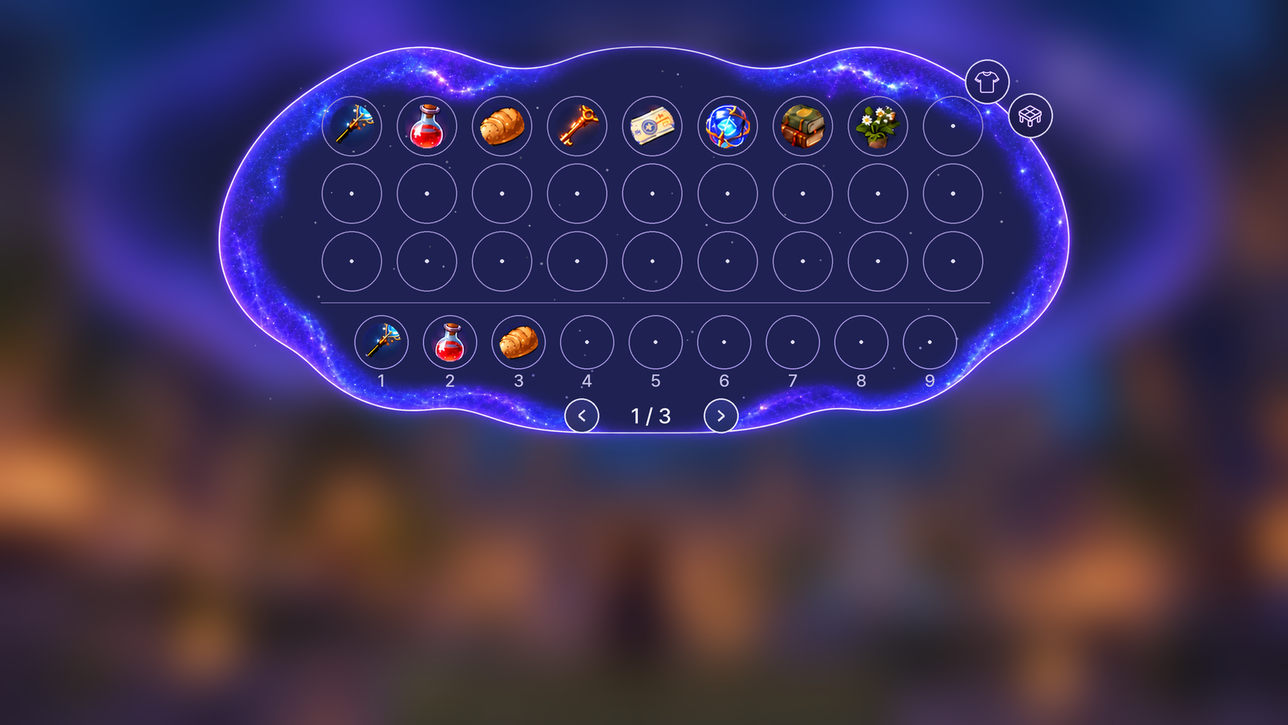
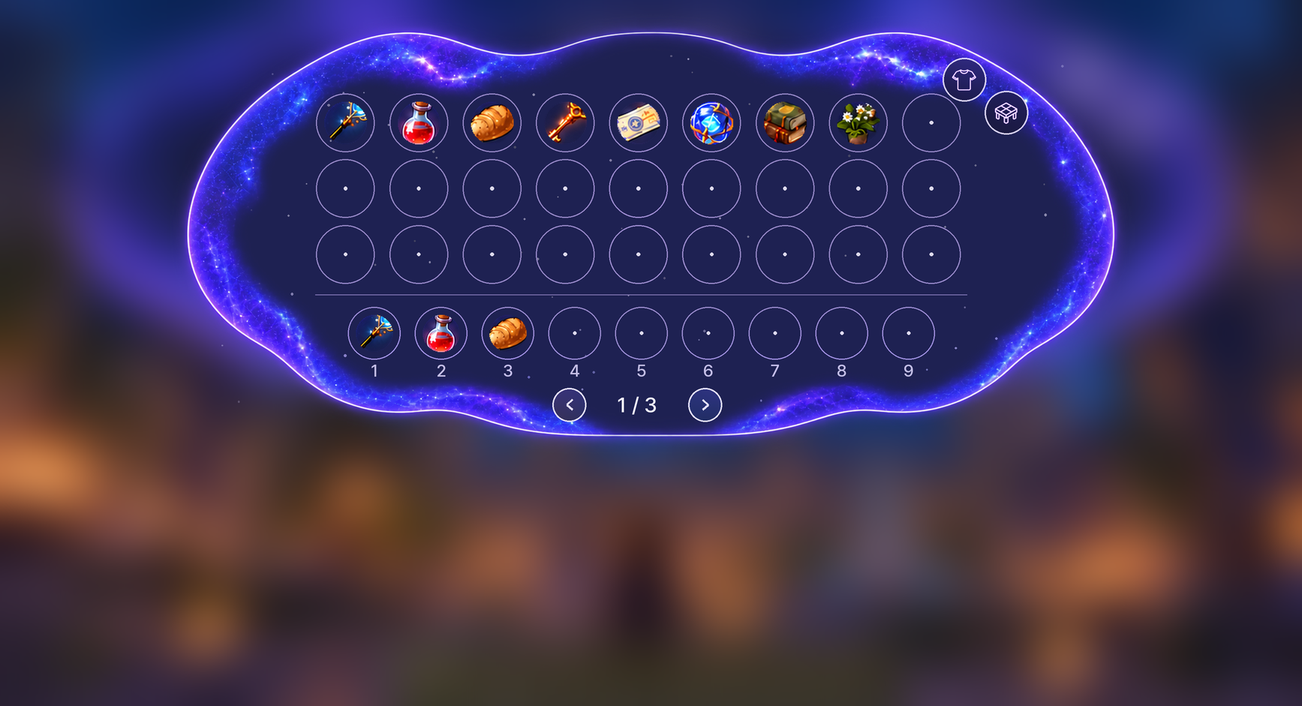
아공간 배낭 3차: 레퍼런스처럼 버튼·쪽 표시가 테두리 안에 들어가게 테두리 배율 조정
- 슬롯·버튼·제작창 내용 위치와 크기는 레퍼런스 그대로, 테두리만 균등 0.71 (PNG 모양 차이 보정)
- 제작창은 배낭 옆으로 오른쪽 100 이동, 캔버스 1735x941
- 조합법 책 버튼을 레퍼런스처럼 밝은 테두리·보라 글로우로

Claude-Session: https://claude.ai/code/session_0195n7GXNFft2XywgWRcxuzD

Changed region(s): [[0.1242, 0.0312, 0.8696, 0.6544]]

diff --git a/magic-codex-fabric/src/main/java/school/magiccodex/client/GalaxyBagLayout.java b/magic-codex-fabric/src/main/java/school/magiccodex/client/GalaxyBagLayout.java
@@ -11,24 +11,29 @@ package school.magiccodex.client;
 final class GalaxyBagLayout {
     private GalaxyBagLayout() {}
 
-    static final int CANVAS_W = 1672, CANVAS_H = 941;
+    static final int CANVAS_W = 1735, CANVAS_H = 941;
 
     // ---- bag border (bag_galaxy_border.png 1817x866, visible 13..1804 x 33..842) placed on the reference bag
     static final int BAG_PNG_W = 1817, BAG_PNG_H = 866;
-    /** PNG visible box (13..1804 x 33..842) laid exactly on the reference bag outline (45..1182 x 44..580). */
-    static final float BAG_SX = 1137f / 1791f, BAG_SY = 536f / 809f, BAG_X = 45 - 13 * BAG_SX, BAG_Y = 44 - 33 * BAG_SY;
+    /**
+     * The provided PNG's outline is shaped a little differently from the reference picture (dips at top/bottom centre,
+     * narrower top-right). At this uniform scale every slot ring sits on the dark glass and the two round buttons and
+     * the pager sit inside the outline, as in the reference (found from the PNG alpha). Slots keep reference size.
+     */
+    static final float BAG_SX = 0.71f, BAG_SY = 0.71f, BAG_X = -4, BAG_Y = 2;
     static final float BAG_W = BAG_PNG_W * BAG_SX, BAG_H = BAG_PNG_H * BAG_SY;
     /** Visible outline of the bag on the canvas (PNG visible bbox at this scale). */
-    static final float BAG_LEFT = 45, BAG_RIGHT = 1182, BAG_TOP = 44, BAG_BOTTOM = 580;
+    static final float BAG_LEFT = 13 * BAG_SX + BAG_X, BAG_RIGHT = 1804 * BAG_SX + BAG_X, BAG_TOP = 33 * BAG_SY + BAG_Y, BAG_BOTTOM = 842 * BAG_SY + BAG_Y;
     /** Shift that centres the bag alone (crafting closed): canvas centre minus the bag's visible centre. */
     static final float BAG_ALONE_SHIFT = CANVAS_W / 2f - (BAG_LEFT + BAG_RIGHT) / 2f;
 
     // ---- crafting panel (craft_panel_border.png 1108x1420, visible 34..1075 x 43..1380)
     static final int PANEL_PNG_W = 1108, PANEL_PNG_H = 1420;
-    /** PNG visible box (34..1075 x 43..1380) laid exactly on the reference panel outline (1185..1630 x 52..630). */
-    static final float PANEL_SX = 445f / 1041f, PANEL_SY = 578f / 1337f, PANEL_X = 1185 - 34 * PANEL_SX, PANEL_Y = 52 - 43 * PANEL_SY;
+    /** Reference panel (1185..1630 x 52..630) moved right by PANEL_DX so it sits beside the bag as in the reference. */
+    static final float PANEL_DX = 100;
+    static final float PANEL_SX = 445f / 1041f, PANEL_SY = 578f / 1337f, PANEL_X = 1185 + PANEL_DX - 34 * PANEL_SX, PANEL_Y = 52 - 43 * PANEL_SY;
     static final float PANEL_W = PANEL_PNG_W * PANEL_SX, PANEL_H = PANEL_PNG_H * PANEL_SY;
-    static final float PANEL_LEFT = 1185, PANEL_RIGHT = 1630, PANEL_TOP = 52, PANEL_BOTTOM = 630;
+    static final float PANEL_LEFT = 1185 + PANEL_DX, PANEL_RIGHT = 1630 + PANEL_DX, PANEL_TOP = 52, PANEL_BOTTOM = 630;
     /** Panel enters from the right by this much while it fades in. */
     static final float PANEL_SLIDE = 48;
     static final float OPEN_SECONDS = 0.24f;
@@ -43,22 +48,22 @@ final class GalaxyBagLayout {
     static final float LOCK_TITLE_Y = 103, LOCK_ICON_Y = 216, LOCK_ICON = 120, LOCK_TEXT_Y = 300, LOCK_HINT_Y = 331;
 
     // ---- crafting panel contents
-    static final float CRAFT_TITLE_X = 1250, CRAFT_TITLE_Y = 100, BOOK_X = 1361, BOOK_Y = 96, BOOK_SIZE = 52;
-    static final float CLOSE_X = 1579, CLOSE_Y = 100, CLOSE_R = 23;
-    static final float TITLE_RULE_Y = 127, TITLE_RULE_X0 = 1217, TITLE_RULE_X1 = 1325;
-    static final float[][] INPUTS = {{1273, 177}, {1358, 177}, {1273, 262}, {1358, 262}};
+    static final float CRAFT_TITLE_X = 1250 + PANEL_DX, CRAFT_TITLE_Y = 100, BOOK_X = 1361 + PANEL_DX, BOOK_Y = 96, BOOK_SIZE = 52;
+    static final float CLOSE_X = 1579 + PANEL_DX, CLOSE_Y = 100, CLOSE_R = 23;
+    static final float TITLE_RULE_Y = 127, TITLE_RULE_X0 = 1217 + PANEL_DX, TITLE_RULE_X1 = 1325 + PANEL_DX;
+    static final float[][] INPUTS = {{1273 + PANEL_DX, 177}, {1358 + PANEL_DX, 177}, {1273 + PANEL_DX, 262}, {1358 + PANEL_DX, 262}};
     static final float INPUT_R = 37.5f, INPUT_ITEM = 52;
-    static final float RESULT_X = 1542, RESULT_Y = 217, RESULT_R = 51, RESULT_ITEM = 70;
-    static final float ARROW_X = 1444, ARROW_Y = 217, ARROW_LEN = 55;
-    static final float SECTION_RULE_Y = 315, SECTION_RULE_X0 = 1217, SECTION_RULE_X1 = 1605;
-    static final float RECIPE_TITLE_X = 1252, RECIPE_TITLE_Y = 352;
-    static final float SEARCH_X0 = 1315, SEARCH_X1 = 1465, SEARCH_Y0 = 332, SEARCH_Y1 = 367;
-    static final float CRAFTABLE_LABEL_X = 1515, CRAFTABLE_LABEL_Y = 351;
-    static final float TOGGLE_X0 = 1564, TOGGLE_X1 = 1610, TOGGLE_Y0 = 340, TOGGLE_Y1 = 364;
-    static final float[] CARD_X = {1227, 1355, 1482}, CARD_Y = {386, 487};
+    static final float RESULT_X = 1542 + PANEL_DX, RESULT_Y = 217, RESULT_R = 51, RESULT_ITEM = 70;
+    static final float ARROW_X = 1444 + PANEL_DX, ARROW_Y = 217, ARROW_LEN = 55;
+    static final float SECTION_RULE_Y = 315, SECTION_RULE_X0 = 1217 + PANEL_DX, SECTION_RULE_X1 = 1605 + PANEL_DX;
+    static final float RECIPE_TITLE_X = 1252 + PANEL_DX, RECIPE_TITLE_Y = 352;
+    static final float SEARCH_X0 = 1315 + PANEL_DX, SEARCH_X1 = 1465 + PANEL_DX, SEARCH_Y0 = 332, SEARCH_Y1 = 367;
+    static final float CRAFTABLE_LABEL_X = 1515 + PANEL_DX, CRAFTABLE_LABEL_Y = 351;
+    static final float TOGGLE_X0 = 1564 + PANEL_DX, TOGGLE_X1 = 1610 + PANEL_DX, TOGGLE_Y0 = 340, TOGGLE_Y1 = 364;
+    static final float[] CARD_X = {1227 + PANEL_DX, 1355 + PANEL_DX, 1482 + PANEL_DX}, CARD_Y = {386, 487};
     static final float CARD_W = 116, CARD_H = 88, CARD_ITEM = 66;
     static final int CARDS_PER_PAGE = 6;
-    static final float RECIPE_PAGER_Y = 600, RECIPE_PREV_X = 1345, RECIPE_NEXT_X = 1475, RECIPE_LABEL_X = 1410, RECIPE_PAGER_R = 17;
+    static final float RECIPE_PAGER_Y = 600, RECIPE_PREV_X = 1345 + PANEL_DX, RECIPE_NEXT_X = 1475 + PANEL_DX, RECIPE_LABEL_X = 1410 + PANEL_DX, RECIPE_PAGER_R = 17;
 
     // ---- PlayerScreenHandler slot ids
     static final int RESULT_SLOT = 0, INPUT_START = 1, MAIN_START = 9, HOTBAR_START = 36;

diff --git a/magic-codex-fabric/src/test/java/school/magiccodex/client/GalaxyBagLayoutTest.java b/magic-codex-fabric/src/test/java/school/magiccodex/client/GalaxyBagLayoutTest.java
@@ -30,13 +30,12 @@ class GalaxyBagLayoutTest {
         assertTrue(GalaxyBagLayout.PANEL_LEFT > GalaxyBagLayout.BAG_RIGHT, "panel never covers the bag");
     }
 
-    @Test void bordersLieOnTheReferenceOutlines() {
-        // PNG visible boxes (bag 13..1804 x 33..842, panel 34..1075 x 43..1380) land on the reference outlines.
-        assertEquals(45, GalaxyBagLayout.BAG_X + 13 * GalaxyBagLayout.BAG_SX, 0.01);
-        assertEquals(1182, GalaxyBagLayout.BAG_X + 1804 * GalaxyBagLayout.BAG_SX, 0.01);
-        assertEquals(580, GalaxyBagLayout.BAG_Y + 842 * GalaxyBagLayout.BAG_SY, 0.01);
-        assertEquals(1630, GalaxyBagLayout.PANEL_X + 1075 * GalaxyBagLayout.PANEL_SX, 0.01);
-        assertEquals(630, GalaxyBagLayout.PANEL_Y + 1380 * GalaxyBagLayout.PANEL_SY, 0.01);
+    @Test void bordersKeepPngAspectAndPanelSitsBesideTheBag() {
+        assertEquals(GalaxyBagLayout.BAG_SX, GalaxyBagLayout.BAG_SY, 1e-6);
+        assertTrue(GalaxyBagLayout.PANEL_LEFT > GalaxyBagLayout.BAG_RIGHT);
+        assertTrue(GalaxyBagLayout.PANEL_LEFT - GalaxyBagLayout.BAG_RIGHT < 20);
+        assertTrue(GalaxyBagLayout.PANEL_RIGHT <= GalaxyBagLayout.CANVAS_W);
+        assertTrue(GalaxyBagLayout.BAG_LEFT >= 0);
     }
 
     @Test void fitIsUniformTopAlignedAndInsideTheWindow() {
@@ -63,8 +62,8 @@ class GalaxyBagLayoutTest {
         assertFalse(GalaxyBagLayout.hit(e, e.cx(), e.cy(), 0));
         assertTrue(GalaxyBagLayout.insideBag(GalaxyBagLayout.CANVAS_W / 2.0, 300, 0));
         assertFalse(GalaxyBagLayout.insideBag(10, 900, 0));
-        assertFalse(GalaxyBagLayout.insidePanel(1400, 300, 0));
-        assertTrue(GalaxyBagLayout.insidePanel(1400, 300, 1));
+        assertFalse(GalaxyBagLayout.insidePanel(1500, 300, 0));
+        assertTrue(GalaxyBagLayout.insidePanel(1500, 300, 1));
         assertEquals(0, GalaxyBagLayout.card(GalaxyBagLayout.CARD_X[0] + 5, GalaxyBagLayout.CARD_Y[0] + 5, 1));
         assertEquals(5, GalaxyBagLayout.card(GalaxyBagLayout.CARD_X[2] + 5, GalaxyBagLayout.CARD_Y[1] + 5, 1));
         assertEquals(-1, GalaxyBagLayout.card(GalaxyBagLayout.CARD_X[0] - 6, GalaxyBagLayout.CARD_Y[0], 1));

diff --git a/magic-codex-fabric/src/main/java/school/magiccodex/client/GalaxyBagScreen.java b/magic-codex-fabric/src/main/java/school/magiccodex/client/GalaxyBagScreen.java
@@ -417,9 +417,13 @@ public final class GalaxyBagScreen extends HandledScreen<PlayerScreenHandler> im
             // Recipe book toggle: rounded square, lit while the recipe list is open.
             float h = GalaxyBagLayout.BOOK_SIZE / 2, bxc = GalaxyBagLayout.BOOK_X, byc = GalaxyBagLayout.BOOK_Y;
             boolean bookHover = GalaxyBagLayout.rect(mx, my, bxc - h, byc - h, bxc + h, byc + h);
-            if (recipesWanted) roundRect(c, bxc - h, byc - h, 2 * h, 2 * h, 12, fade(0x553A1FA0, alpha));
-            roundRectOutline(c, bxc - h, byc - h, 2 * h, 2 * h, 12, recipesWanted ? 3.2f : 1.6f, fade(recipesWanted ? 0xFFB79CFF : bookHover ? RING_HOVER : RING, alpha));
-            if (recipesWanted) roundRectOutline(c, bxc - h - 3, byc - h - 3, 2 * h + 6, 2 * h + 6, 15, 3f, fade(0x449C7BFF, alpha));
+            // Reference: dark square with a bright lavender frame and violet glow while the recipe list is open.
+            roundRect(c, bxc - h, byc - h, 2 * h, 2 * h, 12, fade(0xFF2A2468, alpha));
+            if (recipesWanted) {
+                roundRectOutline(c, bxc - h - 4, byc - h - 4, 2 * h + 8, 2 * h + 8, 16, 5f, fade(0x667C5CF0, alpha));
+                roundRectOutline(c, bxc - h - 1.5f, byc - h - 1.5f, 2 * h + 3, 2 * h + 3, 13.5f, 2.5f, fade(0xAA9C7BFF, alpha));
+            }
+            roundRectOutline(c, bxc - h, byc - h, 2 * h, 2 * h, 12, recipesWanted ? 3.2f : 1.8f, fade(recipesWanted ? 0xFFEDE6FF : bookHover ? RING_HOVER : RING, alpha));
             image(c, BOOK, bxc - 30, byc - 30, 60, 60, ICON_PNG, ICON_PNG, fade(0xFFFFFFFF, alpha));
             // Close.
             boolean closeHover = GalaxyBagLayout.circle(mx, my, GalaxyBagLayout.CLOSE_X, GalaxyBagLayout.CLOSE_Y, GalaxyBagLayout.CLOSE_R);

diff --git a/docs/handoff/CLAUDE_GALAXY_BAG_20261024.md b/docs/handoff/CLAUDE_GALAXY_BAG_20261024.md
@@ -55,19 +55,16 @@ Branch `claude/galaxy-bag-20261024`, based on `claude/shop-admin-inventory-20261
 | `resources/assets/magiccodex/textures/gui/bag/*` | 제공 PNG(아래 3장) + `asset_manifest.json`. |
 | `src/test/.../GalaxyBagLayoutTest.java` (새) | 8개. |
 
-### 배치 (2차, 오너: "있는 그대로만 레퍼런스 보고 다시")
+### 배치 (3차, 오너: "그대로만 맞추라")
 
-- 캔버스 = 오너 레퍼런스 그대로(1672×941). 모든 위치·크기를 레퍼런스에서 잰 값 그대로 쓴다(슬롯 링 반지름 39, 간격 97.6 등).
-  화면에 균등 맞춤 + **위쪽 정렬**(가로 가운데).
-- 테두리 PNG는 보이는 영역(알파)을 레퍼런스 테두리 위치에 그대로 맞춘다(배낭 45..1182×44..580, 제작창 1185..1630×52..630).
-  그래서 가로·세로 배율이 약 4% 다르다(README의 "비율 고정"보다 오너 지시 "레퍼런스 그대로"를 따름).
-- 제공 PNG 모양이 레퍼런스 그림과 조금 달라서(아래 가운데가 들어가 있고 오른쪽 위가 좁음) 레퍼런스 좌표 그대로 두면
-  **쪽 화살표가 아래 테두리 선에 살짝 걸리고, 둥근 버튼 2개가 오른쪽 위 테두리 바깥쪽에 걸친다.** 위치는 레퍼런스대로 두었다(오너 확인 필요, PNG 수정본이 오면 좌표는 그대로 쓰면 됨).
-- **안쪽 면은 불투명**(레퍼런스에서 뽑은 남색 #1E2152)이고, 은하 띠 아래까지 깔아서 띠 너머로 월드가 비치지 않는다(1차는 반투명이라 오너가 지적).
-  레퍼런스처럼 희미한 별 점을 고정 위치에 찍는다.
-- 제작창이 닫혀 있으면 배낭이 가운데. 열면 0.24초 동안 배낭이 왼쪽으로 미끄러지고 제작창이 오른쪽에서 밀려 들어와 레퍼런스 배치에서 멈춘다.
-  제작창 슬롯은 85% 이상 들어온 뒤부터 클릭된다.
-- 배경: 바닐라 회색 어둡게/흐림 없음(레퍼런스처럼 월드 위에 뜸).
+- 슬롯·핫바·번호·쪽 표시·둥근 버튼·제작창 내용의 위치와 크기는 오너 레퍼런스(1672×941)에서 잰 값 그대로.
+- 제공 테두리 PNG는 레퍼런스 그림과 모양이 조금 달라서(위·아래 가운데가 들어가고 오른쪽 위가 좁음) 레퍼런스 크기로 깔면
+  쪽 화살표가 아래 선에 걸리고 둥근 버튼이 테두리 밖으로 나간다. 그래서 테두리만 **균등 배율 0.71**(비율 그대로)로 그려
+  레퍼런스처럼 모든 링은 어두운 유리 안, 버튼 2개·쪽 표시는 테두리 안에 들어가게 했다(PNG 알파로 계산).
+  배낭이 그만큼 넓어져서 제작창은 레퍼런스 위치에서 오른쪽으로 100 옮겼고(배낭 옆 8px), 캔버스는 1735×941.
+- 안쪽 면 불투명(레퍼런스 남색 #1E2152, 은하 띠 아래까지) + 레퍼런스처럼 희미한 별 점.
+- 제작창이 닫혀 있으면 배낭이 가운데. 열면 0.24초 동안 배낭이 왼쪽으로, 제작창이 오른쪽에서 밀려 들어와 둘이 가운데 정렬.
+  제작창 슬롯은 85% 이상 들어온 뒤부터 클릭된다. 화면에 균등 맞춤 + 위쪽 정렬. 바닐라 회색 어둡게/흐림 없음.
 - 글꼴: "아공간 배낭"·"잠긴 공간" 마루부리(title), "제작"·"조합법"·수량 Pretendard Bold, 숫자·쪽 표시 Pretendard Medium.
 
 ### 동작
